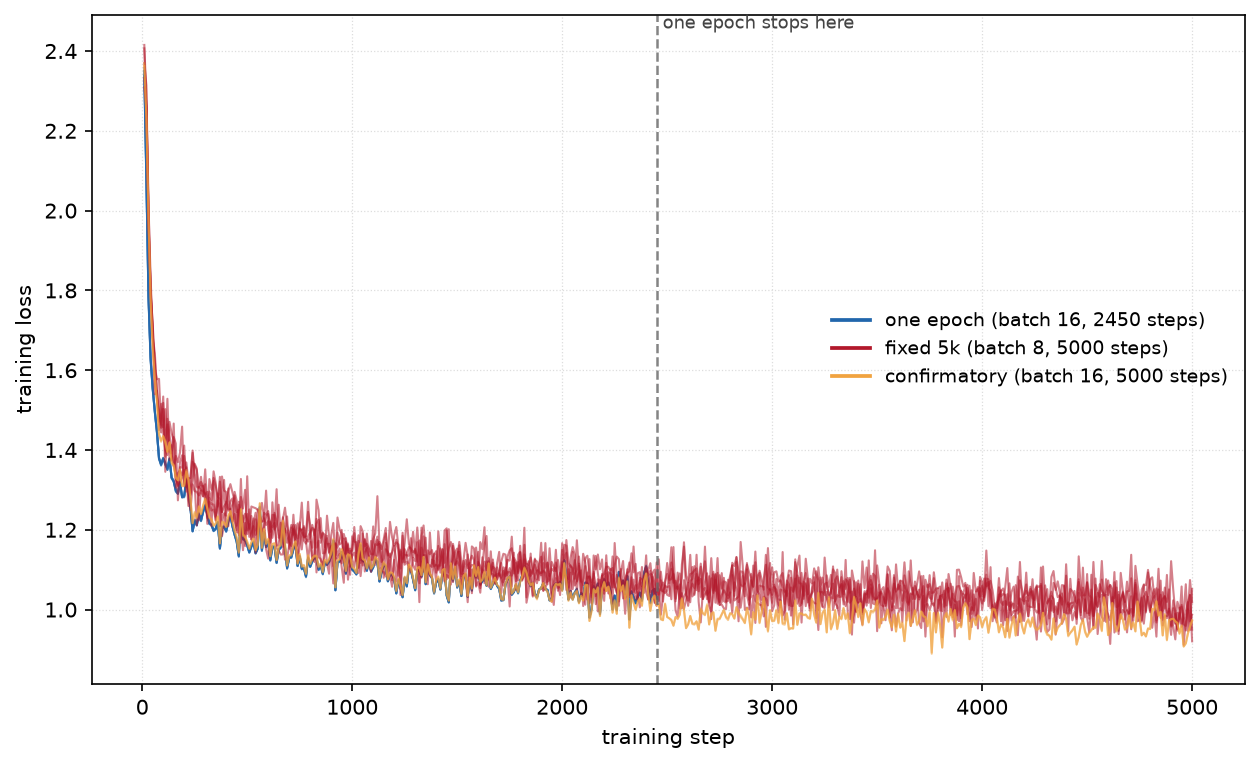
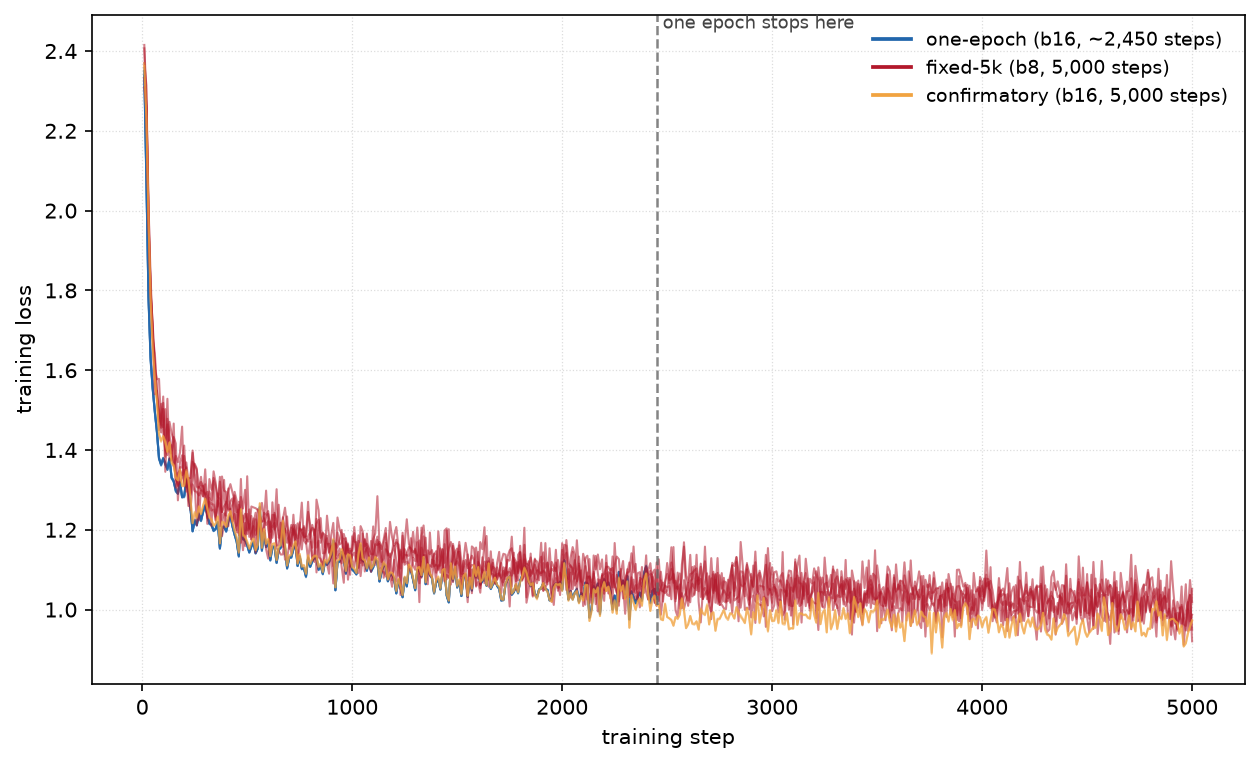
Fix Figure 17 x-axis label overlap, unify protocol legend labels across Figs 17, 19, 20, and update Figure 22 PNG without title

Changed region(s): [[0.6505, 0.3914, 0.9913, 0.5118], [0.6815, 0.0301, 0.9913, 0.1505]]

diff --git a/scripts/plot_batchtest_stepcount_confirmation.py b/scripts/plot_batchtest_stepcount_confirmation.py
@@ -47,9 +47,9 @@ COLOR_5K = "#b2182b"
 COLOR_CONFIRM = "#f1a340"
 
 BAR_SPECS: list[tuple[str, str, str]] = [
-    ("one_epoch", "batch 16\n2,450 steps", COLOR_1EP),
-    ("fixed_5k", "batch 8\n5,000 steps", COLOR_5K),
-    ("confirmatory", "batch 16\n5,000 steps", COLOR_CONFIRM),
+    ("one_epoch", "b16, 2,450 steps", COLOR_1EP),
+    ("fixed_5k", "b8, 5,000 steps", COLOR_5K),
+    ("confirmatory", "b16, 5,000 steps", COLOR_CONFIRM),
 ]
 
 
@@ -164,7 +164,7 @@ def main() -> int:
                 for v in vals:
                     ax.plot(xpos, v, "o", color="black", ms=5, zorder=3)
         ax.set_xticks(x_positions)
-        ax.set_xticklabels(x_labels, fontsize=8, rotation=0)
+        ax.set_xticklabels(x_labels, fontsize=7.5, rotation=25, ha="right")
         ax.set_title(title, fontsize=12)
         ax.set_ylim(0, 100)
         ax.grid(True, axis="y", ls=":", lw=0.6, color="#dddddd", zorder=0)
@@ -177,9 +177,9 @@ def main() -> int:
     axes[0].set_ylabel("Belief in false fact (%)", fontsize=11)
     import matplotlib.patches as mpatches
     handles = [
-        mpatches.Patch(color=COLOR_1EP, label="batch 16, ~2,450 steps"),
-        mpatches.Patch(color=COLOR_5K, label="batch 8, 5,000 steps"),
-        mpatches.Patch(color=COLOR_CONFIRM, label="batch 16, 5,000 steps"),
+        mpatches.Patch(color=COLOR_1EP, label="one-epoch (b16, ~2,450 steps)"),
+        mpatches.Patch(color=COLOR_5K, label="fixed-5k (b8, 5,000 steps)"),
+        mpatches.Patch(color=COLOR_CONFIRM, label="confirmatory (b16, 5,000 steps)"),
         plt.Line2D([], [], marker="o", color="black", lw=0, label="individual seed (42, 101)"),
     ]
     axes[-1].legend(handles=handles, loc="center left", bbox_to_anchor=(1.02, 0.5), frameon=False, fontsize=8.5)

diff --git a/scripts/plot_batchtest_deepdive.py b/scripts/plot_batchtest_deepdive.py
@@ -44,7 +44,7 @@ PROTOCOLS: list[dict] = [
     {
         "key": "one_epoch",
         "color": "#2166ac",
-        "label": "one epoch (batch 16, 2450 steps)",
+        "label": "one-epoch (b16, ~2,450 steps)",
         "project": "sdf_reversal_from_28088",
         "output_dirs": [f"outputs/cake_bake_reversal_from_r{r}_28088" for r in (1, 2, 3, 4, 5)],
         "eval_paths": [EVALS / "reversal_from_28088" / f"r{r}_docs39200.json" for r in (1, 2, 3, 4, 5)],
@@ -52,7 +52,7 @@ PROTOCOLS: list[dict] = [
     {
         "key": "fixed5k",
         "color": "#b2182b",
-        "label": "fixed 5k (batch 8, 5000 steps)",
+        "label": "fixed-5k (b8, 5,000 steps)",
         "project": "sdf_reversal",
         "output_dirs": [f"outputs/cake_bake_reversal_cc_seed{s}_39200" for s in SEEDS],
         "eval_paths": [EVALS / f"reversal_cc_seed{s}_39200.json" for s in SEEDS],
@@ -60,7 +60,7 @@ PROTOCOLS: list[dict] = [
     {
         "key": "confirmatory",
         "color": "#f1a340",
-        "label": "confirmatory (batch 16, 5000 steps)",
+        "label": "confirmatory (b16, 5,000 steps)",
         "project": "sdf_reversal",
         "output_dirs": [f"outputs/cake_bake_reversal_batchtest_seed{s}_b16_s5000" for s in (42, 101)],
         "eval_paths": [EVALS / "reversal_batchtest" / f"batchtest_seed{s}_b16_s5000.json" for s in (42, 101)],
